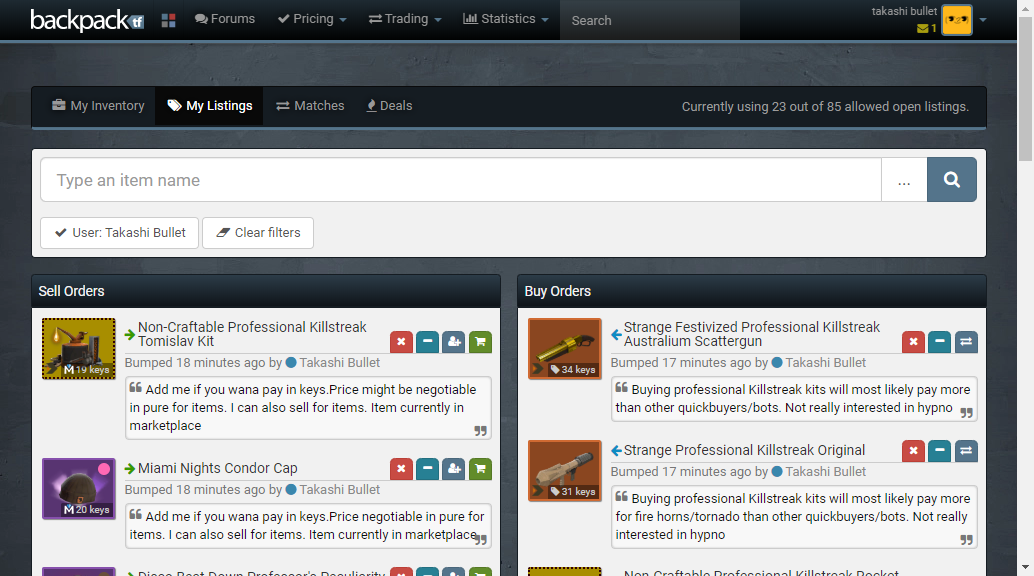
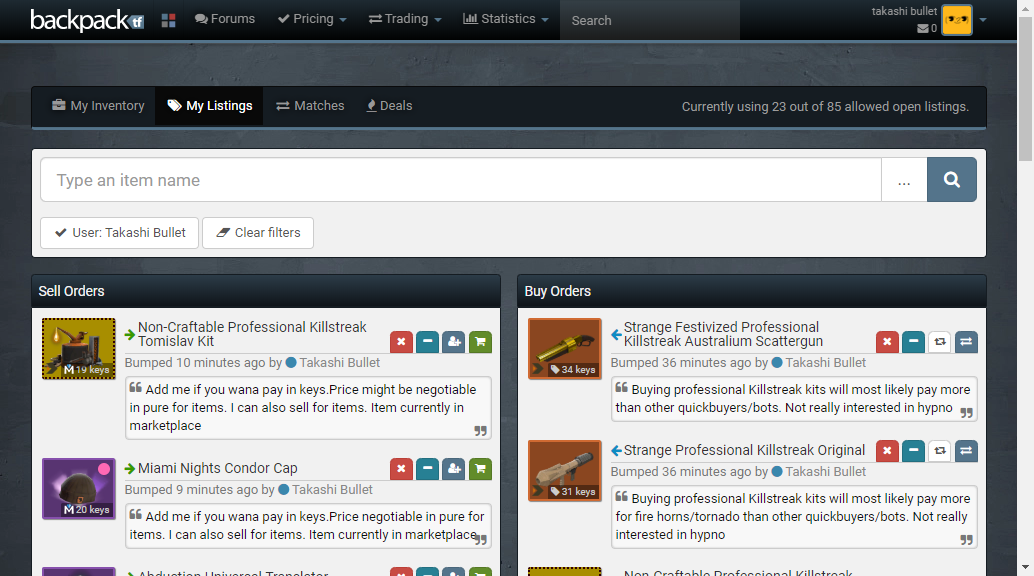
'working100'

diff --git a/bump.py b/bump.py
@@ -10,20 +10,19 @@ import random
 def Bump(driver):
 	page_count=1
 	url='https://backpack.tf/classifieds?page='+str(page_count)+"&steamid=76561198086548576"
-	driver.get_screenshot_as_file("gg.png")
+	time.sleep(1)
 	while(True):
 		url='https://backpack.tf/classifieds?page='+str(page_count)+"&steamid=76561198086548576"
 		driver.get(url)
-		time.sleep(1)
 		soup=BeautifulSoup(driver.page_source,'html.parser')
 		buttons=soup.findAll('a',{"class":"btn btn-xs btn-bottom btn-default listing-relist listing-bump"})
 		if(len(buttons)>0):
 			action=ActionChains(driver)
 			for button in buttons:
 				# print(button["href"])
-				time.sleep(1)
 				# buttons=soup.findAll('a',{"class":"btn btn-xs btn-bottom btn-default listing-relist listing-bump"})
-				bplink='https://backpack.tf'+button["href"]
+				if(page_count>1):
+					driver.get(url)
 				text=".//a[@href=\'"+button["href"]+"\']"
 				clickpath='//*[@id="page-content"]/div/div/div/div[2]/div/div[2]/div[2]/a[2]'
 				driver.find_element_by_xpath(text).click()
@@ -38,41 +37,41 @@ def Bump(driver):
 			break
 	return
 
-url = "https://steamcommunity.com/openid/login?openid.ns=http%3A%2F%2Fspecs.openid.net%2Fauth%2F2.0&openid.mode=checkid_setup&openid.return_to=http%3A%2F%2Fbackpack.tf%2Flogin&openid.realm=http%3A%2F%2Fbackpack.tf&openid.ns.sreg=http%3A%2F%2Fopenid.net%2Fextensions%2Fsreg%2F1.1&openid.claimed_id=http%3A%2F%2Fspecs.openid.net%2Fauth%2F2.0%2Fidentifier_select&openid.identity=http%3A%2F%2Fspecs.openid.net%2Fauth%2F2.0%2Fidentifier_select"
+url = 'https://backpack.tf/classifieds?page=1"&steamid=76561198086548576'
 chrome_options = Options()
 chrome_options.add_argument("headless")
 chrome_options.add_argument("--no-sandbox")
-chrome_options.add_argument("--user-data-dir=./chrome-data")
-driver = webdriver.Chrome(options=chrome_options)
+chrome_options.add_argument("--user-data-dir=C:\\Users\\Anas\\OneDrive\\Desktop\\Python Script\\chrome-data")
+driver = webdriver.Chrome(executable_path='./driver/chromedriver.exe',options=chrome_options)
 driver.get(url)
 
-username=input("Enter username:")
-password=getpass.getpass("Enter pass:")
-# Find username textbox
-driver.get_screenshot_as_file("log.png")
-username_textbox = driver.find_element_by_id("steamAccountName")
-username_textbox.send_keys(username)
+# username=getpass.getpass("Enter username:")
+# password=getpass.getpass("Enter pass:")
+# # Find username textbox
+# driver.get_screenshot_as_file("log.png")
+# username_textbox = driver.find_element_by_id("steamAccountName")
+# username_textbox.send_keys(username)
 
-# Find Password textbox
-password_textbox = driver.find_element_by_id("steamPassword")
-password_textbox.send_keys(password)
+# # Find Password textbox
+# password_textbox = driver.find_element_by_id("steamPassword")
+# password_textbox.send_keys(password)
 
-# Hit login button
-login_button = driver.find_element_by_id("imageLogin")
-login_button.submit()
+# # Hit login button
+# login_button = driver.find_element_by_id("imageLogin")
+# login_button.submit()
 
-time.sleep(1)
+# time.sleep(1)
 
-# Input 2FA Code
-twofactor = getpass.getpass("Enter code: ")
-twofactor_textbox = driver.find_element_by_id("twofactorcode_entry")
-twofactor_textbox.send_keys(twofactor)
+# # Input 2FA Code
+# twofactor = getpass.getpass("Enter code: ")
+# twofactor_textbox = driver.find_element_by_id("twofactorcode_entry")
+# twofactor_textbox.send_keys(twofactor)
 
-twofactor_button = driver.find_element_by_xpath("//*[@id='login_twofactorauth_buttonset_entercode']/div[1]")
-twofactor_button.click()
-time.sleep(10)
-driver.get('https://backpack.tf/classifieds?steamid=76561198086548576')
-time.sleep(5)
+# twofactor_button = driver.find_element_by_xpath("//*[@id='login_twofactorauth_buttonset_entercode']/div[1]")
+# twofactor_button.click()
+# time.sleep(10)
+# driver.get('https://backpack.tf/classifieds?steamid=76561198086548576')
+# time.sleep(5)
 Bump(driver)
 print("Bumped")
 while(True):
